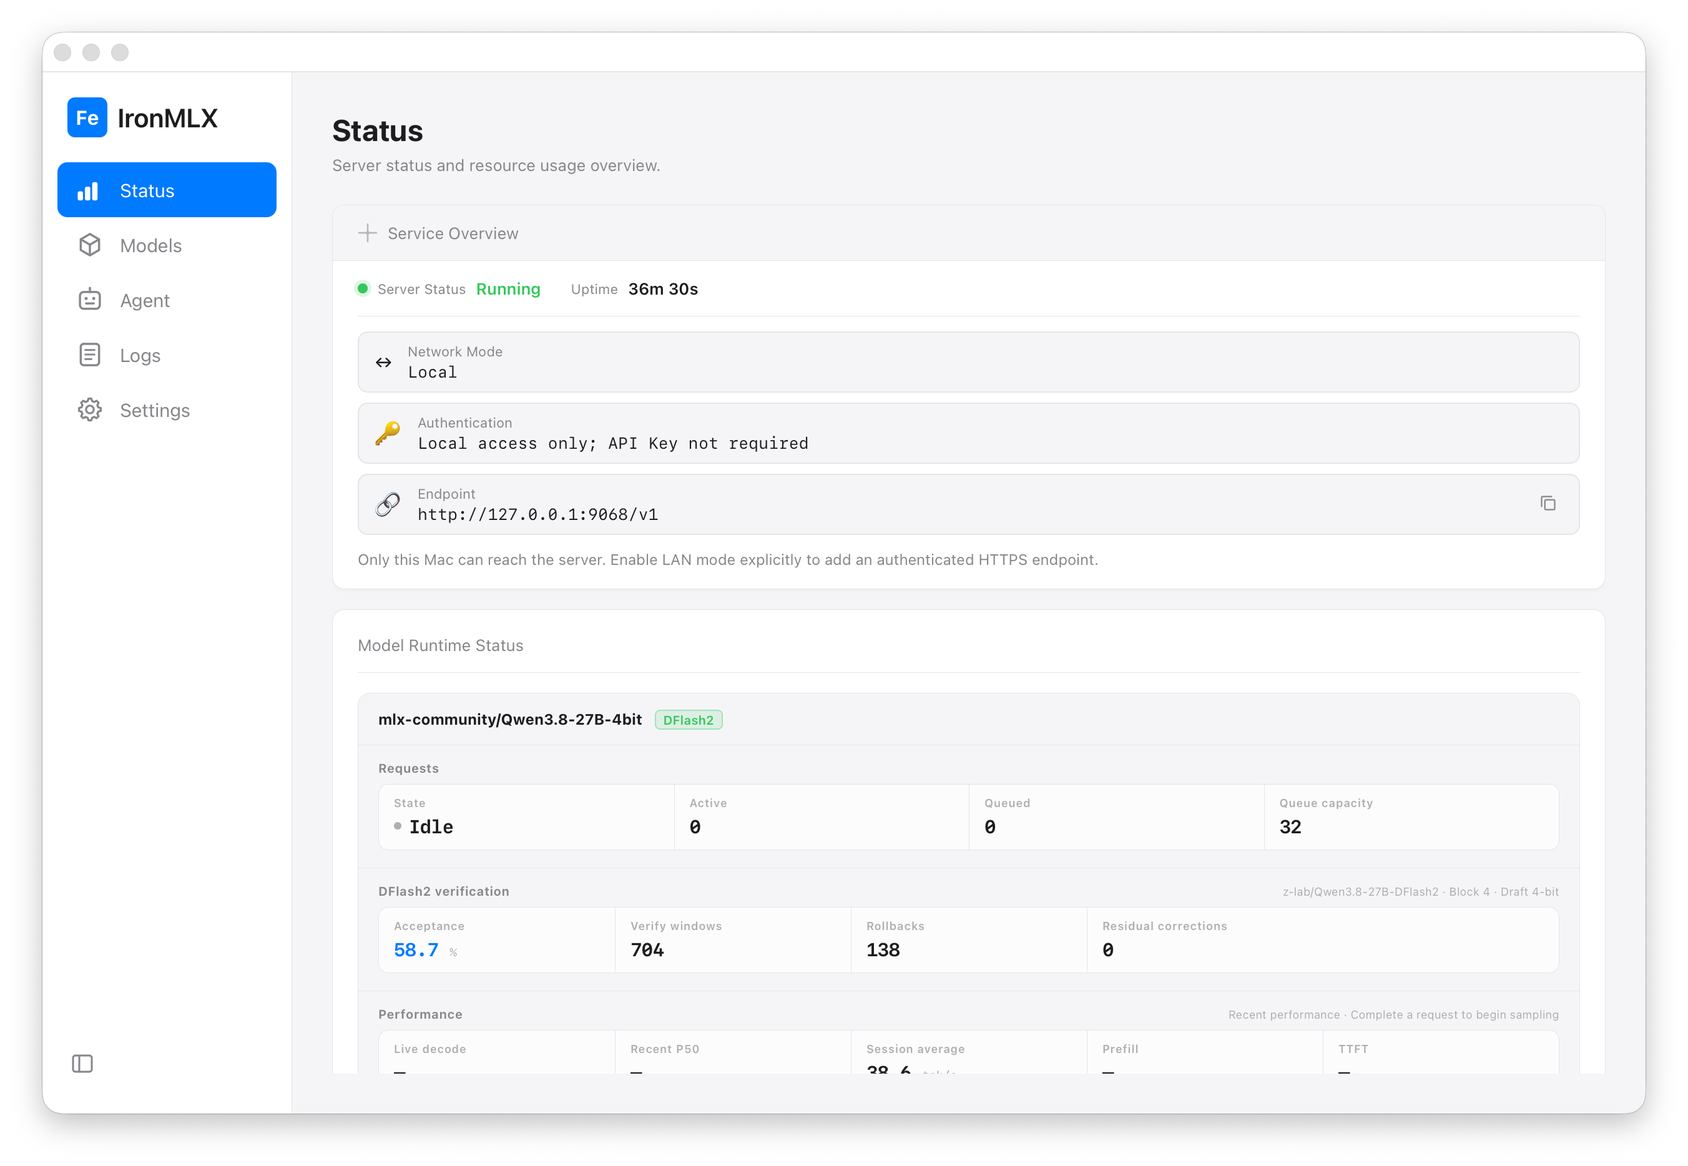
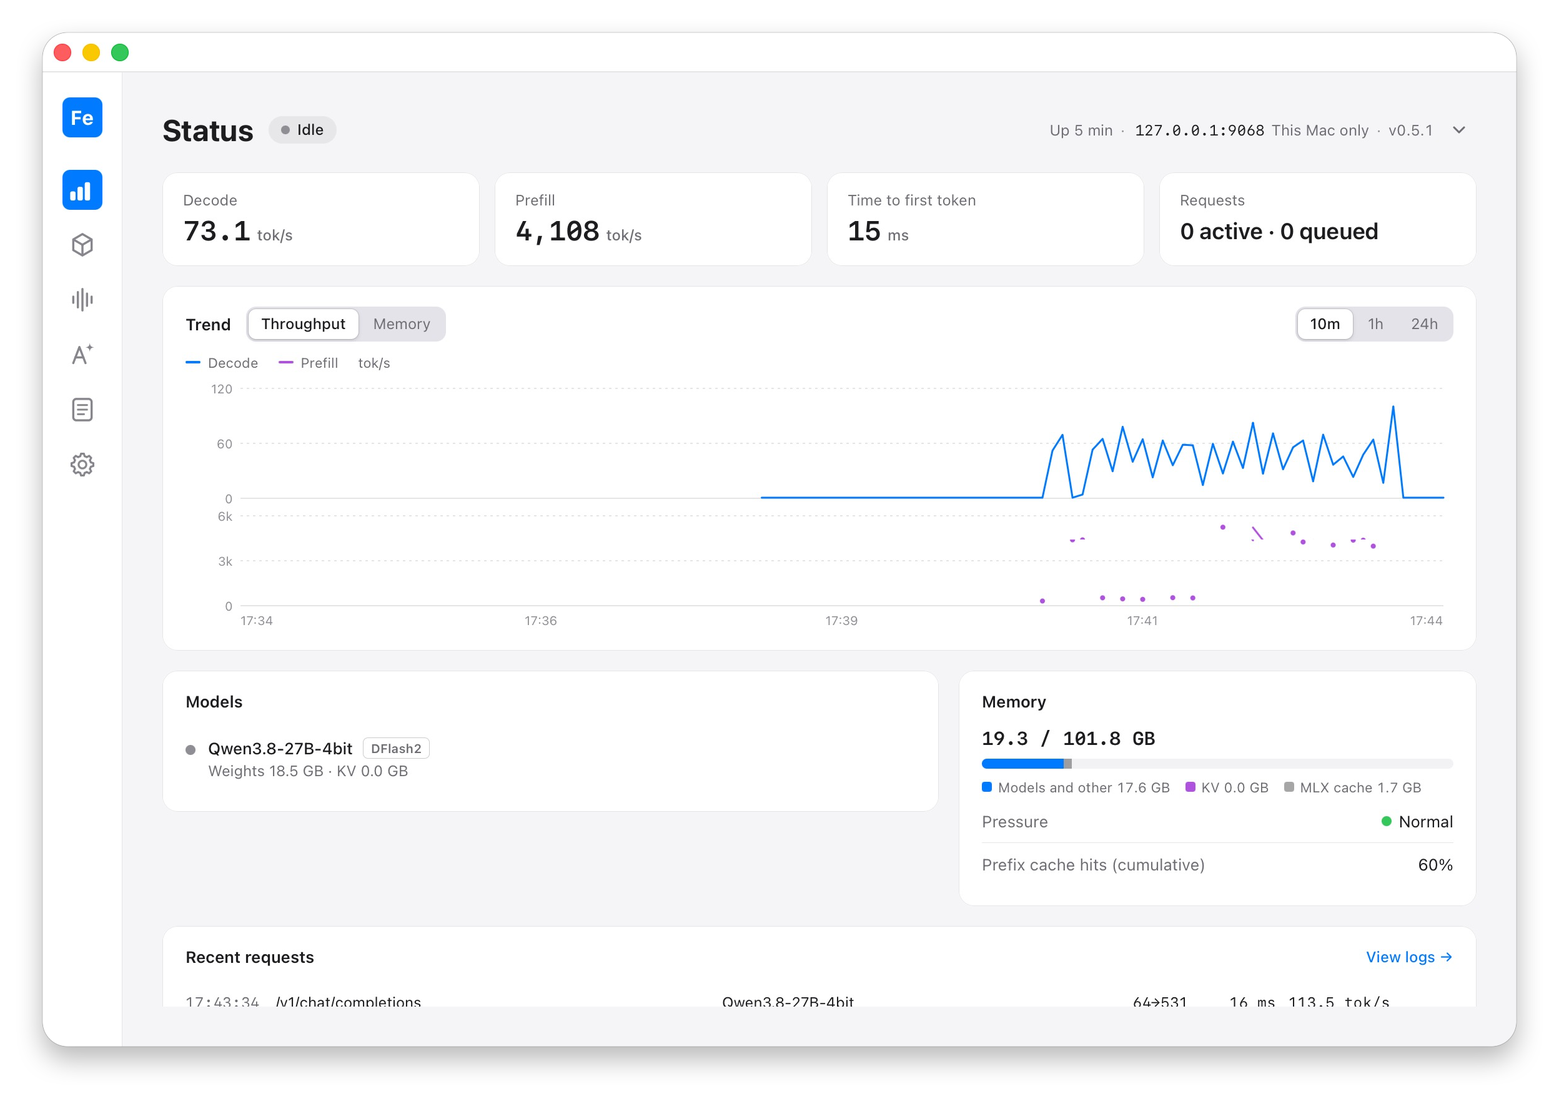
docs: refresh UI screenshots and document runtime status

diff --git a/website/index.html b/website/index.html
@@ -13,7 +13,7 @@
 <body>
   <header class="nav"><a class="brand" href="./"><span class="mark">Fe</span><span>IronMLX</span></a><nav><a class="nav-link" href="https://github.com/apepkuss/ironmlx"><svg class="nav-icon" viewBox="0 0 24 24" aria-hidden="true" focusable="false"><use href="assets/navigation-icons.svg#github"></use></svg><span>GitHub</span></a><a class="nav-link" href="https://github.com/apepkuss/ironmlx/releases"><svg class="nav-icon" viewBox="0 0 24 24" aria-hidden="true" focusable="false"><use href="assets/navigation-icons.svg#releases"></use></svg><span>Releases</span></a><a class="nav-link" href="docs/"><svg class="nav-icon" viewBox="0 0 24 24" aria-hidden="true" focusable="false"><use href="assets/navigation-icons.svg#docs"></use></svg><span>Docs</span></a><a class="nav-link" href="zh/" lang="zh-Hans"><svg class="nav-icon" viewBox="0 0 24 24" aria-hidden="true" focusable="false"><use href="assets/navigation-icons.svg#language"></use></svg><span>中文</span></a><div class="theme-picker" data-theme-picker data-theme-label="Theme"><button class="theme-trigger" type="button" aria-haspopup="menu" aria-expanded="false" data-theme-trigger><svg class="theme-icon" viewBox="0 0 24 24" aria-hidden="true"><circle cx="12" cy="12" r="4"></circle><path d="M12 2v2M12 20v2M4.93 4.93l1.42 1.42M17.65 17.65l1.42 1.42M2 12h2M20 12h2M4.93 19.07l1.42-1.42M17.65 6.35l1.42-1.42"></path></svg></button><div class="theme-menu" role="menu" data-theme-menu hidden><button type="button" role="menuitemradio" data-theme-option="system"><svg class="theme-option-icon" viewBox="0 0 24 24" aria-hidden="true"><rect x="3" y="4" width="18" height="14" rx="2"></rect><path d="M8 22h8M12 18v4"></path></svg><span>System</span><span class="theme-check" aria-hidden="true">✓</span></button><button type="button" role="menuitemradio" data-theme-option="light"><svg class="theme-option-icon" viewBox="0 0 24 24" aria-hidden="true"><circle cx="12" cy="12" r="4"></circle><path d="M12 2v2M12 20v2M4.93 4.93l1.42 1.42M17.65 17.65l1.42 1.42M2 12h2M20 12h2M4.93 19.07l1.42-1.42M17.65 6.35l1.42-1.42"></path></svg><span>Light</span><span class="theme-check" aria-hidden="true">✓</span></button><button type="button" role="menuitemradio" data-theme-option="dark"><svg class="theme-option-icon" viewBox="0 0 24 24" aria-hidden="true"><path d="M20.4 14.6A8.5 8.5 0 0 1 9.4 3.6a8.5 8.5 0 1 0 11 11Z"></path></svg><span>Dark</span><span class="theme-check" aria-hidden="true">✓</span></button></div></div></nav></header>
   <main>
-    <section class="hero"><div><p class="release-badge">__RELEASE_BADGE_EN__</p><p class="eyebrow">LOCAL INFERENCE FOR APPLE SILICON</p><h1>Private AI on Apple Silicon.</h1><p class="lede">Power your Agents with local AI models.</p><div class="actions">__STABLE_BUTTON_EN__<a class="button secondary" href="https://github.com/apepkuss/ironmlx">View on GitHub ↗</a></div><p class="preview-download">__RC_DOWNLOAD_EN__</p><p class="meta">Apple Silicon · macOS 26.4+ · OpenAI-compatible API · Privacy-first</p></div><div class="hero-art"><div class="glow"></div><img src="assets/dashboard-overview.png" alt="IronMLX Dashboard"></div></section>
+    <section class="hero"><div><p class="release-badge">__RELEASE_BADGE_EN__</p><p class="eyebrow">LOCAL INFERENCE FOR APPLE SILICON</p><h1>Private AI on Apple Silicon.</h1><p class="lede">Power your Agents with local AI models.</p><div class="actions">__STABLE_BUTTON_EN__<a class="button secondary" href="https://github.com/apepkuss/ironmlx">View on GitHub ↗</a></div><p class="preview-download">__RC_DOWNLOAD_EN__</p><p class="meta">Apple Silicon · macOS 26.4+ · OpenAI-compatible API · Privacy-first</p></div><div class="hero-art"><div class="glow"></div><img class="hero-shot-light" src="assets/dashboard-overview.png" alt="IronMLX Dashboard"><img class="hero-shot-dark" src="assets/dashboard-overview-dark.png" alt="IronMLX Dashboard" loading="lazy"></div></section>
     <section class="features"><article><span>01</span><h2>Built for Agent applications</h2><p>Provide local model inference for Agent application scenarios.</p></article><article><span>02</span><h2>Built for Apple Silicon Macs</h2><p>Use Apple Silicon acceleration to run and manage local models efficiently on your Mac.</p></article><article><span>03</span><h2>Open interfaces</h2><p>Compatible with OpenAI and Anthropic APIs, providing a unified model interface for Agent applications and local tools.</p></article></section>
     <section class="support"><div><p class="eyebrow">SUPPORTED TODAY</p><h2>Bring your models home.</h2><p>Explore the supported model architectures and the requirements for your Mac.</p></div><a class="text-link" href="docs/supported-models.html">See supported models ↗</a></section>
   </main>

diff --git a/website/zh/index.html b/website/zh/index.html
@@ -13,7 +13,7 @@
 <body>
   <header class="nav"><a class="brand" href="./"><span class="mark">Fe</span><span>IronMLX</span></a><nav><a class="nav-link" href="https://github.com/apepkuss/ironmlx"><svg class="nav-icon" viewBox="0 0 24 24" aria-hidden="true" focusable="false"><use href="../assets/navigation-icons.svg#github"></use></svg><span>GitHub</span></a><a class="nav-link" href="https://github.com/apepkuss/ironmlx/releases"><svg class="nav-icon" viewBox="0 0 24 24" aria-hidden="true" focusable="false"><use href="../assets/navigation-icons.svg#releases"></use></svg><span>版本发布</span></a><a class="nav-link" href="docs/"><svg class="nav-icon" viewBox="0 0 24 24" aria-hidden="true" focusable="false"><use href="../assets/navigation-icons.svg#docs"></use></svg><span>文档</span></a><a class="nav-link" href="../" lang="en"><svg class="nav-icon" viewBox="0 0 24 24" aria-hidden="true" focusable="false"><use href="../assets/navigation-icons.svg#language"></use></svg><span>English</span></a><div class="theme-picker" data-theme-picker data-theme-label="主题"><button class="theme-trigger" type="button" aria-haspopup="menu" aria-expanded="false" data-theme-trigger><svg class="theme-icon" viewBox="0 0 24 24" aria-hidden="true"><circle cx="12" cy="12" r="4"></circle><path d="M12 2v2M12 20v2M4.93 4.93l1.42 1.42M17.65 17.65l1.42 1.42M2 12h2M20 12h2M4.93 19.07l1.42-1.42M17.65 6.35l1.42-1.42"></path></svg></button><div class="theme-menu" role="menu" data-theme-menu hidden><button type="button" role="menuitemradio" data-theme-option="system"><svg class="theme-option-icon" viewBox="0 0 24 24" aria-hidden="true"><rect x="3" y="4" width="18" height="14" rx="2"></rect><path d="M8 22h8M12 18v4"></path></svg><span>跟随系统</span><span class="theme-check" aria-hidden="true">✓</span></button><button type="button" role="menuitemradio" data-theme-option="light"><svg class="theme-option-icon" viewBox="0 0 24 24" aria-hidden="true"><circle cx="12" cy="12" r="4"></circle><path d="M12 2v2M12 20v2M4.93 4.93l1.42 1.42M17.65 17.65l1.42 1.42M2 12h2M20 12h2M4.93 19.07l1.42-1.42M17.65 6.35l1.42-1.42"></path></svg><span>浅色</span><span class="theme-check" aria-hidden="true">✓</span></button><button type="button" role="menuitemradio" data-theme-option="dark"><svg class="theme-option-icon" viewBox="0 0 24 24" aria-hidden="true"><path d="M20.4 14.6A8.5 8.5 0 0 1 9.4 3.6a8.5 8.5 0 1 0 11 11Z"></path></svg><span>深色</span><span class="theme-check" aria-hidden="true">✓</span></button></div></div></nav></header>
   <main>
-    <section class="hero"><div><p class="release-badge">__RELEASE_BADGE_ZH__</p><p class="eyebrow">APPLE SILICON 本地推理</p><h1>私享 AI，<br>尽在 Apple Silicon。</h1><p class="lede">用本地 AI 模型服务你的 Agents。</p><div class="actions">__STABLE_BUTTON_ZH__<a class="button secondary" href="https://github.com/apepkuss/ironmlx">访问 GitHub ↗</a></div><p class="preview-download">__RC_DOWNLOAD_ZH__</p><p class="meta">Apple Silicon · macOS 26.4+ · 兼容 OpenAI API · 隐私优先</p></div><div class="hero-art"><div class="glow"></div><img src="../assets/dashboard-overview-zh-CN.png" alt="IronMLX 控制面板"></div></section>
+    <section class="hero"><div><p class="release-badge">__RELEASE_BADGE_ZH__</p><p class="eyebrow">APPLE SILICON 本地推理</p><h1>私享 AI，<br>尽在 Apple Silicon。</h1><p class="lede">用本地 AI 模型服务你的 Agents。</p><div class="actions">__STABLE_BUTTON_ZH__<a class="button secondary" href="https://github.com/apepkuss/ironmlx">访问 GitHub ↗</a></div><p class="preview-download">__RC_DOWNLOAD_ZH__</p><p class="meta">Apple Silicon · macOS 26.4+ · 兼容 OpenAI API · 隐私优先</p></div><div class="hero-art"><div class="glow"></div><img class="hero-shot-light" src="../assets/dashboard-overview.png" alt="IronMLX 控制面板"><img class="hero-shot-dark" src="../assets/dashboard-overview-dark.png" alt="IronMLX 控制面板" loading="lazy"></div></section>
     <section class="features"><article><span>01</span><h2>服务 Agent 应用</h2><p>面向 Agent 应用场景，提供本地模型推理服务。</p></article><article><span>02</span><h2>为 Apple Silicon Mac 打造</h2><p>利用 Apple Silicon 原生加速，在 Mac 上高效运行和管理本地模型。</p></article><article><span>03</span><h2>开放接口</h2><p>兼容 OpenAI 和 Anthropic API，为 Agent 应用和本地工具提供统一的模型接口。</p></article></section>
     <section class="support"><div><p class="eyebrow">当前支持</p><h2>把模型带回本地。</h2><p>查看支持的模型架构，以及 Mac 的运行要求。</p></div><a class="text-link" href="docs/supported-models.html">查看支持的模型 ↗</a></section>
   </main>

diff --git a/website/styles.css b/website/styles.css
@@ -368,6 +368,25 @@ footer {
   box-shadow: 0 25px 70px var(--image-shadow);
 }
 
+.hero-art .hero-shot-dark,
+html[data-theme="dark"] .hero-art .hero-shot-light {
+  display: none;
+}
+
+html[data-theme="dark"] .hero-art .hero-shot-dark {
+  display: block;
+}
+
+@media (prefers-color-scheme: dark) {
+  html[data-theme="system"] .hero-art .hero-shot-light {
+    display: none;
+  }
+
+  html[data-theme="system"] .hero-art .hero-shot-dark {
+    display: block;
+  }
+}
+
 .glow {
   position: absolute;
   inset: 10% -5%;

diff --git a/scripts/build-supported-models-docs.py b/scripts/build-supported-models-docs.py
@@ -92,9 +92,9 @@ def generate(catalog, language):
             raise ValueError(f"Add the App's new category to SECTIONS: {entries[0]['category']}")
     companions = {(helper_main(entry), entry["noteKey"]) for entry in catalog["entries"] if entry["category"] in {"assistant", "drafter"}}
     if language == "zh":
-        lines = ["# 支持的模型", "[English](../supported-models.md)", "<!-- Generated by scripts/build-supported-models-docs.py from the App catalogue. -->", f"与 App **模型 → 模型下载 → 支持的模型** Tab 使用同一清单：**{len(groups)} 个模型 · {len(catalog['entries'])} 个版本**。点击权重格式查看对应仓库。", "✓ 表示能力支持；清单包含已运行验证，以及架构兼容但尚未运行验收的版本。"]
+        lines = ["# 支持的模型", "[English](../supported-models.md)", "<!-- Generated by scripts/build-supported-models-docs.py from the App catalogue. -->", f"与 App **模型 → 下载 → 支持的模型** Tab 使用同一清单：**{len(groups)} 个模型 · {len(catalog['entries'])} 个版本**。点击权重格式查看对应仓库。", "✓ 表示能力支持；清单包含已运行验证，以及架构兼容但尚未运行验收的版本。"]
     else:
-        lines = ["# Supported models", "[简体中文](zh-CN/supported-models.md)", "<!-- Generated by scripts/build-supported-models-docs.py from the App catalogue. -->", f"The same catalogue as **Models → Model Download → Supported models** in the App: **{len(groups)} models · {len(catalog['entries'])} variants**. Select a weight format to open its repository.", "✓ indicates capability support; the catalogue includes runtime-verified and architecture-compatible variants without runtime acceptance."]
+        lines = ["# Supported models", "[简体中文](zh-CN/supported-models.md)", "<!-- Generated by scripts/build-supported-models-docs.py from the App catalogue. -->", f"The same catalogue as **Models → Download → Supported models** in the App: **{len(groups)} models · {len(catalog['entries'])} variants**. Select a weight format to open its repository.", "✓ indicates capability support; the catalogue includes runtime-verified and architecture-compatible variants without runtime acceptance."]
     shortcuts = []
     for title, en_description, zh_description, categories in SECTIONS:
         if any(entries[0]["category"] in categories for entries in groups.values()):

diff --git a/docs/user-guide.md b/docs/user-guide.md
@@ -5,10 +5,10 @@
 This guide organizes the user path for the latest public release. It links to
 focused reference pages instead of repeating their details.
 
-![IronMLX Dashboard showing Qwen3.8-27B-4bit with DFlash2](images/dashboard-qwen38-dflash2.png)
+![IronMLX Dashboard Status page with Qwen3.8-27B-4bit running with DFlash2](images/dashboard-overview.png)
 
-The status page shows a running local endpoint, the loaded
-`mlx-community/Qwen3.8-27B-4bit` model, and its matching DFlash2 draft.
+The Status page shows the local endpoint, decode and prefill speed, memory use,
+and the loaded `mlx-community/Qwen3.8-27B-4bit` model running with DFlash2.
 
 ## Install and start
 
@@ -50,14 +50,14 @@ then loads it as the default model. If the window stays open, chat opens when
 the model is ready. If you close it or choose **Continue in Background**, the
 download keeps running, the menu shows its progress under **Chat**, and
 IronMLX asks for permission to notify you when the model is ready.
-**Choose a Model Myself** opens **Models → Model Download** in the Dashboard.
+**Choose a Model Myself** opens **Models → Download** in the Dashboard.
 
 Chat uses a loaded chat model, preferring the default model. If none is
 loaded, it loads a downloaded one (the default model, otherwise a starter
 model, otherwise the smallest) and makes it the default. The model menu at the
 top of the window lists downloaded chat models. Switching asks for confirmation,
 unloads the current default model unless it is pinned, and loads the new one as
-the default; **Manage models…** opens **Models → Model Manager**. Chat does not load or
+the default; **Manage models…** opens **Models → My models**. Chat does not load or
 switch DFlash2 models: while a model runs with DFlash2, chat uses that model,
 and switching happens in the Dashboard.
 
@@ -75,7 +75,11 @@ the Dashboard **Agent** page at the [DeepSeek Harness](dsh.md) guide.
 
 ## Download and update models
 
-In **Models → Model Download → Supported models**, browse by type, select a quantization variant, then choose **HuggingFace**. Variants of the same model share a row. Options show format and bit width; selecting one reveals its repository, approximate size, memory hint, and validation status.
+![IronMLX Dashboard Models page listing one loaded model and four downloaded models](images/dashboard-models.png)
+
+**Models → My models** lists the models on this Mac, with the loaded ones first.
+
+In **Models → Download → Supported models**, browse by type, select a quantization variant, then choose **HuggingFace**. Variants of the same model share a row. Options show format and bit width; selecting one reveals its repository, approximate size, memory hint, and validation status.
 
 The catalogue downloads public repositories without an HF token. ModelScope buttons stay hidden until repository availability and mirror contents are verified. Use the separate HuggingFace / ModelScope tabs for other repositories or credentials.
 
@@ -89,7 +93,7 @@ Independent model components are downloaded alongside the main weight set, using
 
 ## Import a model already on this Mac
 
-In Dashboard, open **Models → Model Manager** and select **Import local model**
+In Dashboard, open **Models → My models** and select **Import local model**
 at the upper right. Choose the model directory containing `config.json`, weights,
 and a tokenizer. For a Hugging Face cache, choose the `snapshots/<commit>`
 directory rather than its parent cache directory. Review the source, destination,
@@ -119,9 +123,33 @@ If you cancel the DFlash2 model that the App restores at startup, the backend
 restarts in normal mode with no models loaded; the model's DFlash2 setting is
 kept, so you can load it with DFlash2 again later.
 
+## Runtime status
+
+The Dashboard **Status** page shows what the server is doing: decode and prefill
+speed, time to first token, and the number of active and queued requests.
+**Trend** plots throughput or memory over the last 10 minutes, 1 hour or 24
+hours. Below it are the loaded models, memory use by category, the prefix-cache
+hit rate, and recent requests with a link to the logs.
+
+The same state is available without opening the Dashboard. A dot on the menu bar
+icon shows the server state, and the decode speed can appear next to the icon;
+**Show Speed in Menu Bar** in the menu turns the speed on or off. The top of the
+menu shows a status card with the current activity, speed, memory and
+prefix-cache hits.
+
+![IronMLX floating HUD showing a DFlash2 model generating at 102.2 tok/s](images/runtime-hud.png)
+
+**Show Floating HUD** in the menu, or ⌃⌥⌘H, turns on a small floating panel with
+the state, decode speed, time to first token, active and queued requests, and
+memory. It is off by default. Once on, it stays on screen while the server is
+idle, appears on every Space and over full-screen Apps, and does not take
+keyboard focus. Drag it to move it; the position is remembered for each display.
+Right-click it to choose **Density** (**Mini** or **Standard**), turn on
+**Click Through**, **Reset Position**, or **Close** it.
+
 ## Weight format labels
 
-In the App's **Model Management** list, quantized checkpoints display their
+In the App's **Models → My models** list, quantized checkpoints display their
 detected quantization format or bit width. Unquantized checkpoints display the
 detected weight data type, such as `FP16` or `BF16`; the tooltip identifies the
 checkpoint as unquantized and includes the normalized `dtype`. If neither model
@@ -179,7 +207,7 @@ voice ID. Request fields and WAV/PCM examples are in the [speech API](audio-spee
 
 ### Breeze voice design and cloning
 
-Load a Breeze model, then open its gear button in **Model Management**:
+Load a Breeze model, then open its parameters button (the sliders icon) in **Models → My models**:
 
 - To design a voice, enter the text and a natural-language voice description; leave the voice profile ID empty.
 - To clone a voice, use a managed voice ID with the exact transcript of its reference recording. Save the transcript in **Voices** or enter a request override.
@@ -206,7 +234,7 @@ by the native backend during registration before becoming loadable.
 
 ### Model settings
 
-In **Model Management**, select the gear button for the speech model. Basic model
+In **Models → My models**, select the parameters button (the sliders icon) for the speech model. Basic model
 information is read-only; configuration-backed fields appear only when the model
 files provide valid values.
 

diff --git a/docs/zh-CN/laya-systemone-api.md b/docs/zh-CN/laya-systemone-api.md
@@ -101,10 +101,10 @@ Python 与 JavaScript 官方 SDK 示例见[英文 API 文档](../laya-systemone-
 
 ## 使用步骤
 
-1. 打开 **模型 → 模型下载 → Hugging Face**，搜索并下载 `aac6fef/laya-multilingual-mlx`。
-2. 在 **模型管理** 中找到 `DECISION` 类型的模型并点击 **加载**。如果当前运行 DFlash2
+1. 打开 **模型 → 下载 → HuggingFace**，搜索并下载 `aac6fef/laya-multilingual-mlx`。
+2. 在 **模型 → 我的模型** 中找到 `DECISION` 类型的模型并点击 **加载**。如果当前运行 DFlash2
    独占模型，先在 App 中卸载该模型。
-3. 点击该行的齿轮按钮，打开 **模型参数设置**，查看模型别名、`DECISION` 类型和只读的
+3. 点击该行的参数按钮（滑杆图标），打开 **模型参数设置**，查看模型别名、`DECISION` 类型和只读的
    Context Size。上下文长度来自模型配置，包含任务说明、选项和待判断内容。
    服务地址可在 **状态** 页面查看。
 4. 在外部应用中配置这些地址和精确的模型 ID，即可调用 `POST /v1/systemone`。

diff --git a/docs/laya-systemone-api.md b/docs/laya-systemone-api.md
@@ -144,11 +144,11 @@ console.log(result.answers.refund.noul);
 
 ## Use the App
 
-1. In **Models → Model Download → Hugging Face**, search for
+1. In **Models → Download → HuggingFace**, search for
    `aac6fef/laya-multilingual-mlx` and download it.
-2. In **Model Management**, click **Load** on its `DECISION` row. If a DFlash2
+2. In **Models → My models**, click **Load** on its `DECISION` row. If a DFlash2
    target is running, unload that exclusive target first.
-3. Open **Model Param Settings** using the row's gear button to view the model
+3. Open **Model Param Settings** using the row's parameters button (the sliders icon) to view the model
    alias, `DECISION` type and read-only context size. The context size comes from
    the checkpoint configuration and includes instructions, options and state.
    Find the service address on **Status** and use the exact model ID.

diff --git a/docs/supported-models.md b/docs/supported-models.md
@@ -4,7 +4,7 @@
 
 <!-- Generated by scripts/build-supported-models-docs.py from the App catalogue. -->
 
-The same catalogue as **Models → Model Download → Supported models** in the App: **35 models · 67 variants**. Select a weight format to open its repository.
+The same catalogue as **Models → Download → Supported models** in the App: **35 models · 67 variants**. Select a weight format to open its repository.
 
 ✓ indicates capability support; the catalogue includes runtime-verified and architecture-compatible variants without runtime acceptance.
 

diff --git a/docs/zh-CN/supported-models.md b/docs/zh-CN/supported-models.md
@@ -4,7 +4,7 @@
 
 <!-- Generated by scripts/build-supported-models-docs.py from the App catalogue. -->
 
-与 App **模型 → 模型下载 → 支持的模型** Tab 使用同一清单：**35 个模型 · 67 个版本**。点击权重格式查看对应仓库。
+与 App **模型 → 下载 → 支持的模型** Tab 使用同一清单：**35 个模型 · 67 个版本**。点击权重格式查看对应仓库。
 
 ✓ 表示能力支持；清单包含已运行验证，以及架构兼容但尚未运行验收的版本。
 
